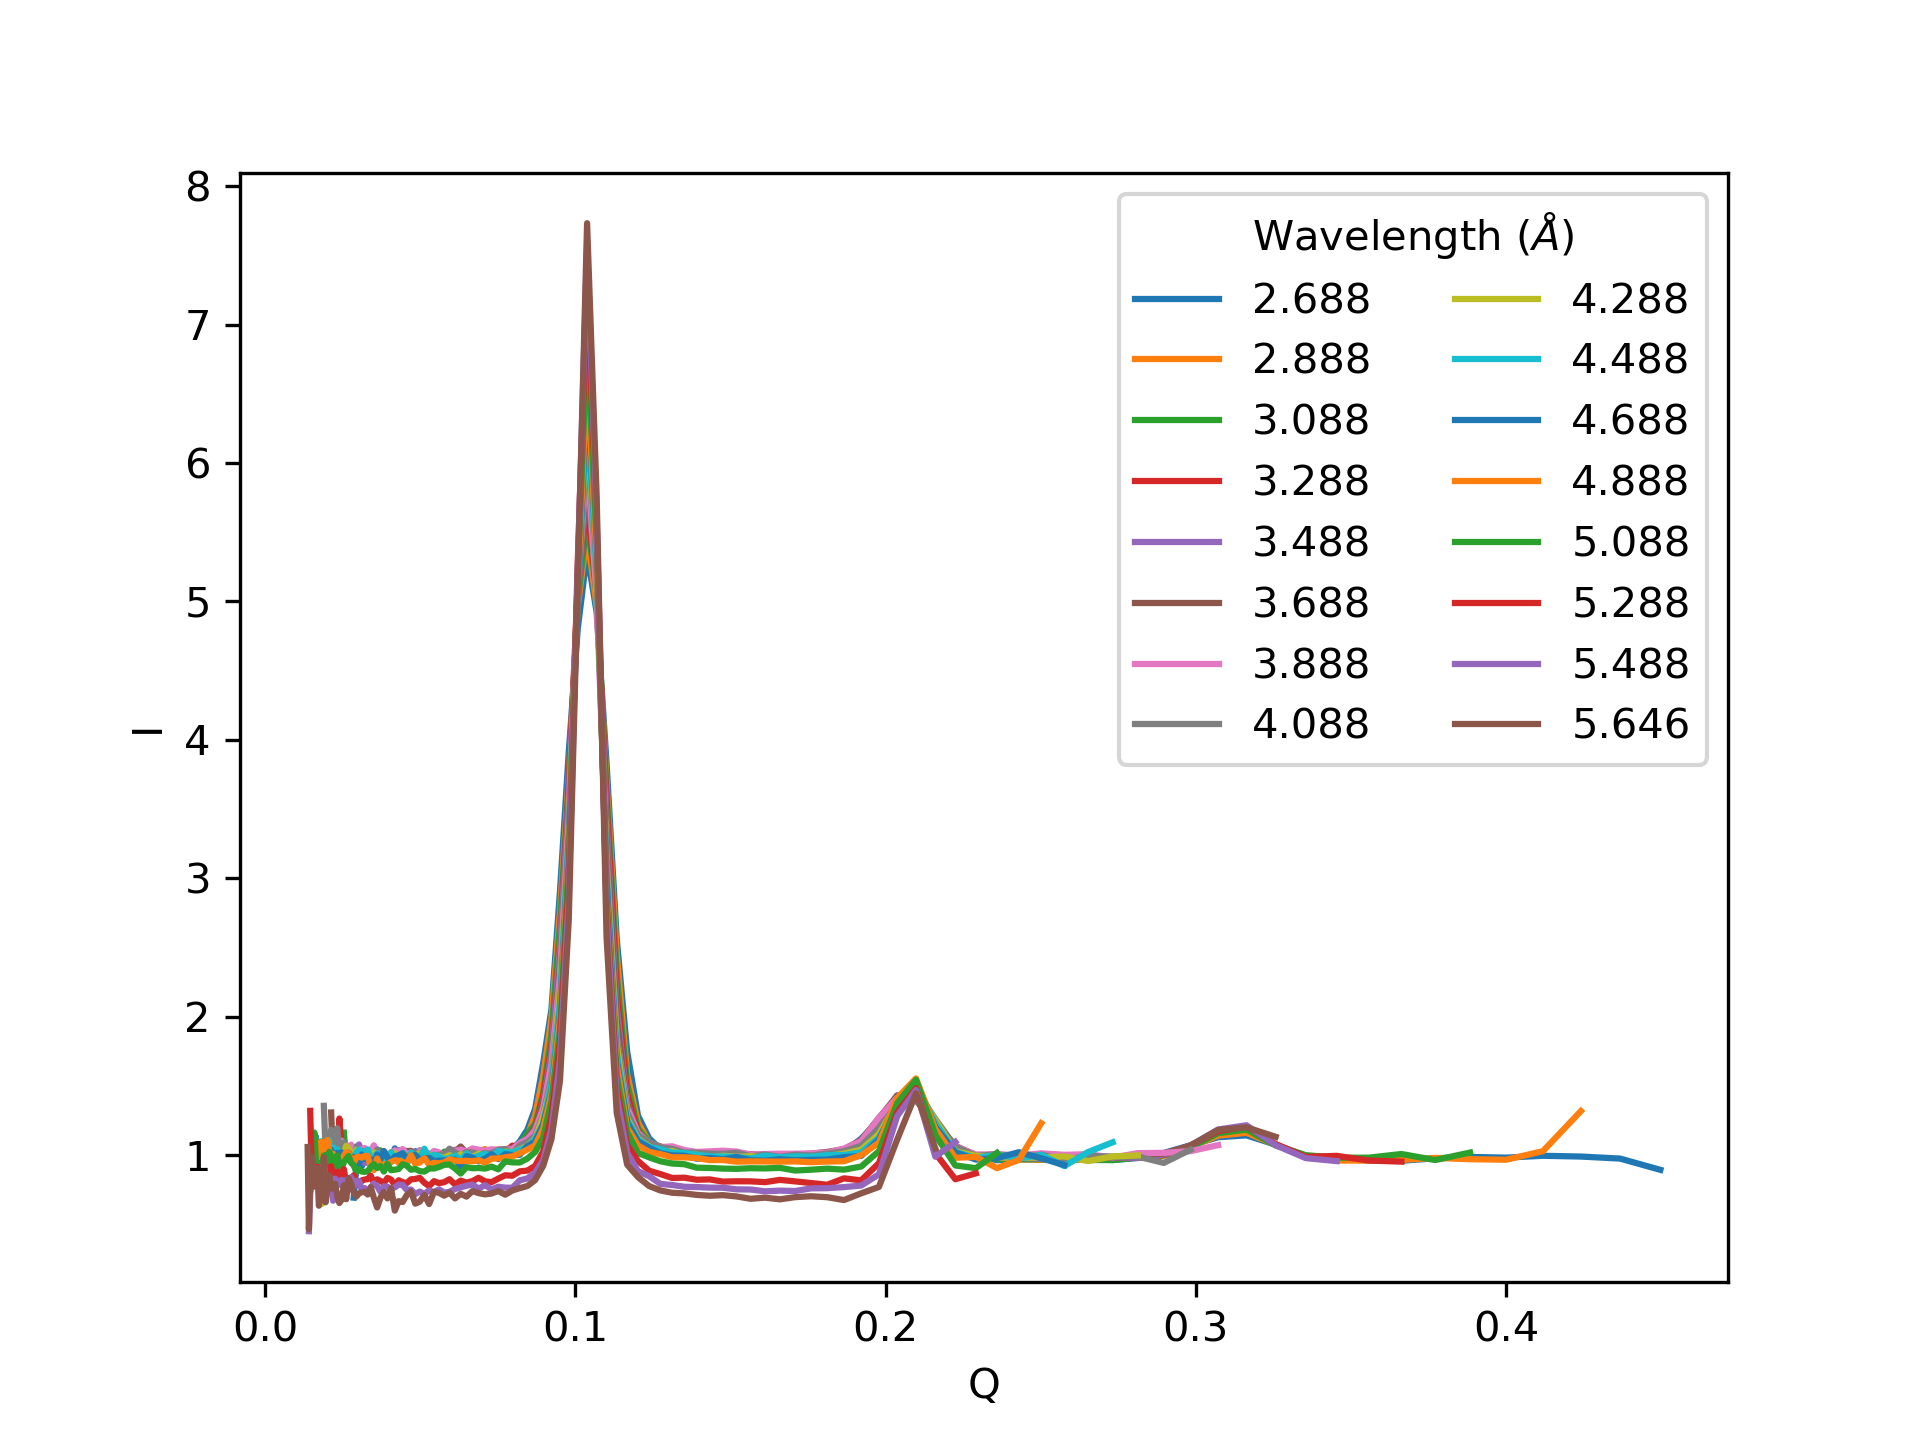
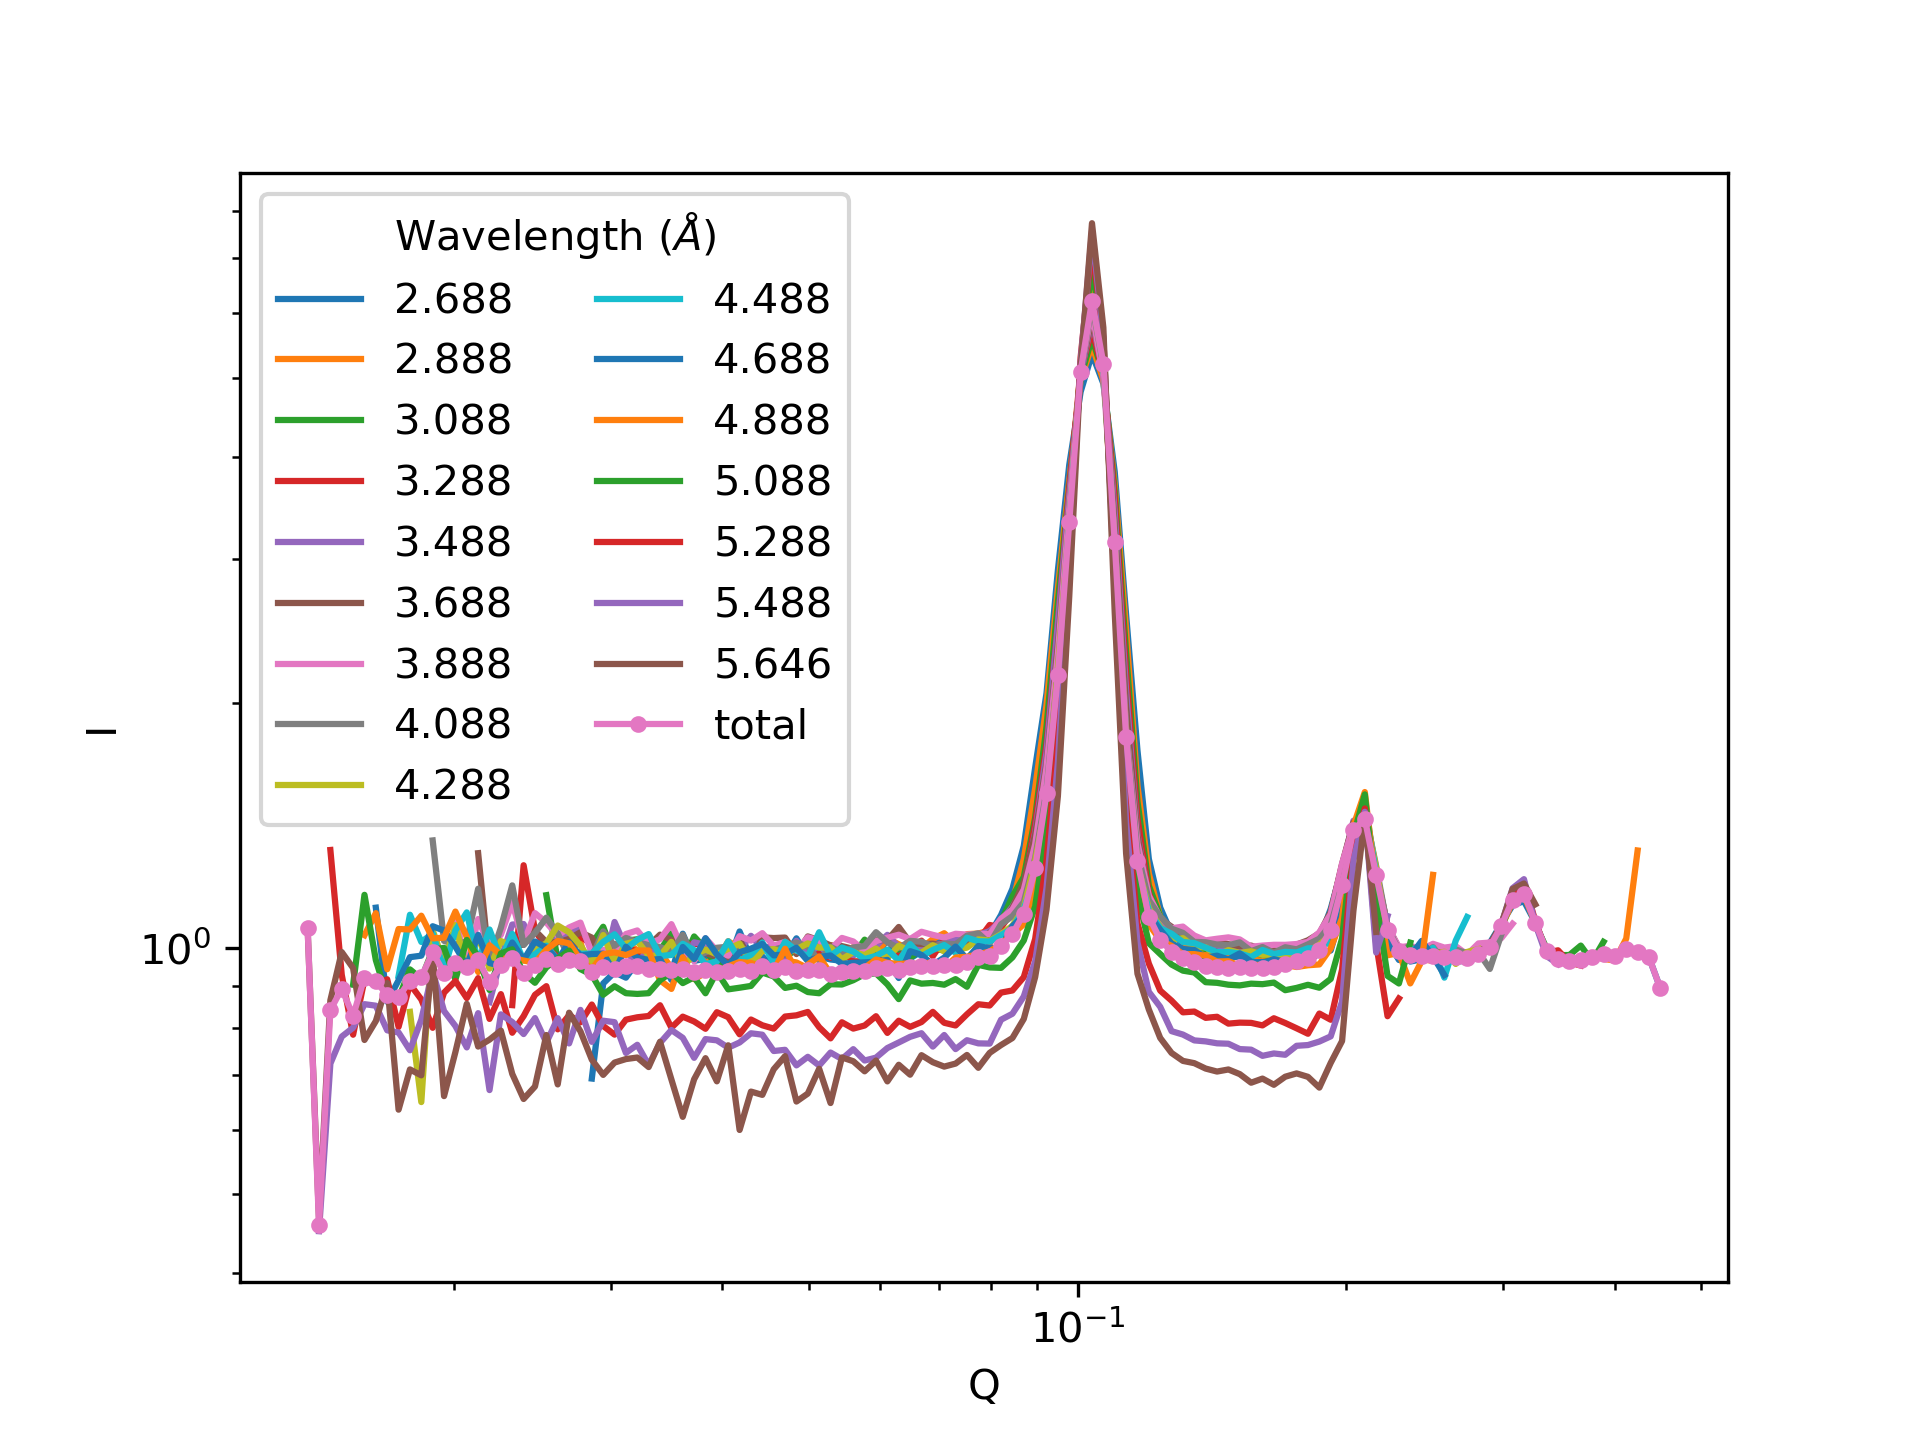
update the plots

diff --git a/docs/user/corrections/inelastic_incoherent.rst b/docs/user/corrections/inelastic_incoherent.rst
@@ -20,8 +20,8 @@ wavelength dependent corrections for inelastic incoherent scattering.
 Elastic reference normalization
 -------------------------------
 
-Elastic reference normalization introduces a wavelength-dependent scale factor to account for
-differences in the intensity scale due to e.g. inexact neutron flux wavelength normalization.
+Elastic reference normalization introduces a wavelength-dependent scale factor `K` to compensate
+for differences in the intensity scale due to e.g. inexact neutron flux wavelength normalization.
 
 Procedure
 .........
@@ -41,7 +41,7 @@ The following steps describe the elastic reference normalization available in `d
       I_{\text{elastic}}(q_k,\lambda_i) \rvert^2
 
    Here, :math:`\lambda_{ref}` is the shortest wavelength bin of :math:`\lambda_{i}`.
-   The resulting K, with the subscript "elastic" is omitted for convenience, is
+   The resulting K, with the subscript "elastic" omitted for convenience, is
 
    .. math::
       K(\lambda_i) = \frac{\sum_{q_k} I(q_k, \lambda_{ref})
@@ -67,20 +67,27 @@ The following steps describe the elastic reference normalization available in `d
 Example
 .......
 
+To show the effect of the elastic reference normalization, Figure 1 shows I(Q) total and per
+wavelength without the normalization and Figure 2 shows I(Q) total and per wavelength with the
+normalization applied.
+
 .. figure:: /user/media/elastic_norm_before.png
    :alt: before elastic reference normalization
    :width: 800px
 
-   Figure 1: I(Q) per wavelength before elastic reference normalization.
+   Figure 1: I(Q) total and per wavelength without elastic reference normalization.
 
 .. figure:: /user/media/elastic_norm_after.png
    :alt: after elastic reference normalization
    :width: 800px
 
-   Figure 2: I(Q) per wavelength after elastic reference normalization.
+   Figure 2: I(Q) total and per wavelength with elastic reference normalization.
 
 Inelastic incoherent correction
 -------------------------------
+
+The inelastic incoherent correction introduces a wavelength-dependent compensation term `b` to
+compensate for the wavelength dependence of inelastic incoherent scattering effects.
 
 Procedure
 .........
@@ -90,8 +97,7 @@ The following steps describe the inelastic incoherent correction available in `d
 #. Get :math:`I(q,\lambda_i)` of the sample run, making sure q-bins are same for all :math:`\lambda`
    bins.
 
-#. Determine :math:`q_{\min}` and :math:`q_{\max}` that exist in all :math:`I(q,\lambda_i)` for the
-   fitting (minimization) process.
+#. Determine :math:`q_{\min}` and :math:`q_{\max}` that exist in all :math:`I(q,\lambda_i)`.
 
 #. Calculate the inelastic incoherent correction factor, :math:`b(\lambda)`. Here,
    :math:`\lambda_{ref}` is the shortest wavelength bin and :math:`N` is the number of :math:`q`
@@ -148,19 +154,23 @@ The following steps describe the inelastic incoherent correction available in `d
 Example
 .......
 
+To show the effect of the inelastic incoherent correction, Figure 3 shows I(Q) total and per
+wavelength without the correction and Figure 4 shows I(Q) total and per wavelength with the
+correction applied. The comparison shows that the correction eliminates the bump at high Q, which
+is an artifact created when averaging I(Q) for different wavelengths with different Q range and
+incoherence levels.
+
 .. figure:: /user/media/incoh_fit_before.png
    :alt: before inelastic incoherent correction
    :width: 800px
 
-   Figure 3: I(Q) per wavelength after elastic reference normalization but before inelastic
-   incoherent correction.
+   Figure 3: I(Q) total and per wavelength without inelastic incoherent correction.
 
 .. figure:: /user/media/incoh_fit_after.png
    :alt: after inelastic incoherent correction
    :width: 800px
 
-   Figure 4: I(Q) per wavelengths after elastic reference normalization and inelastic incoherent
-   correction.
+   Figure 4: I(Q) total and per wavelength with inelastic incoherent correction.
 
 Parameters
 ----------
